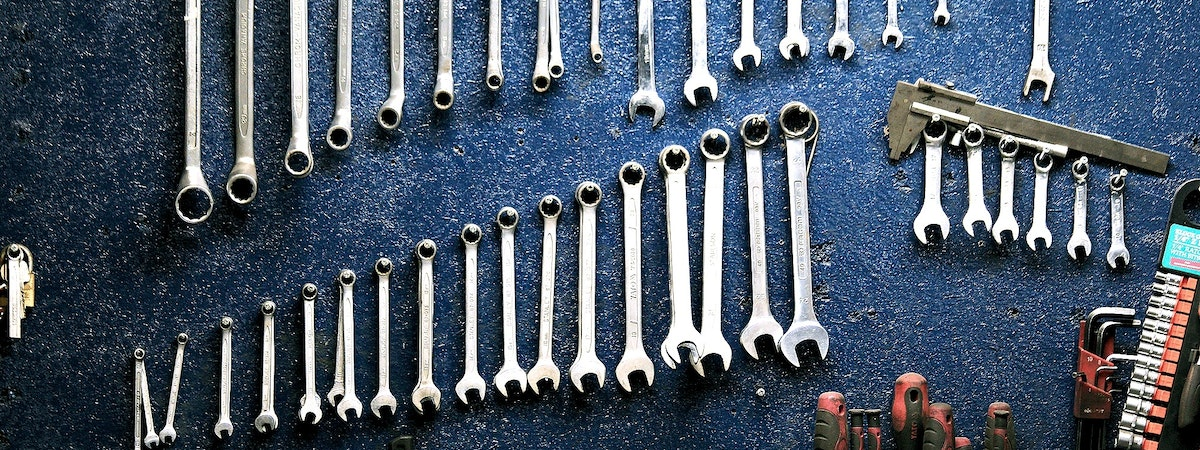
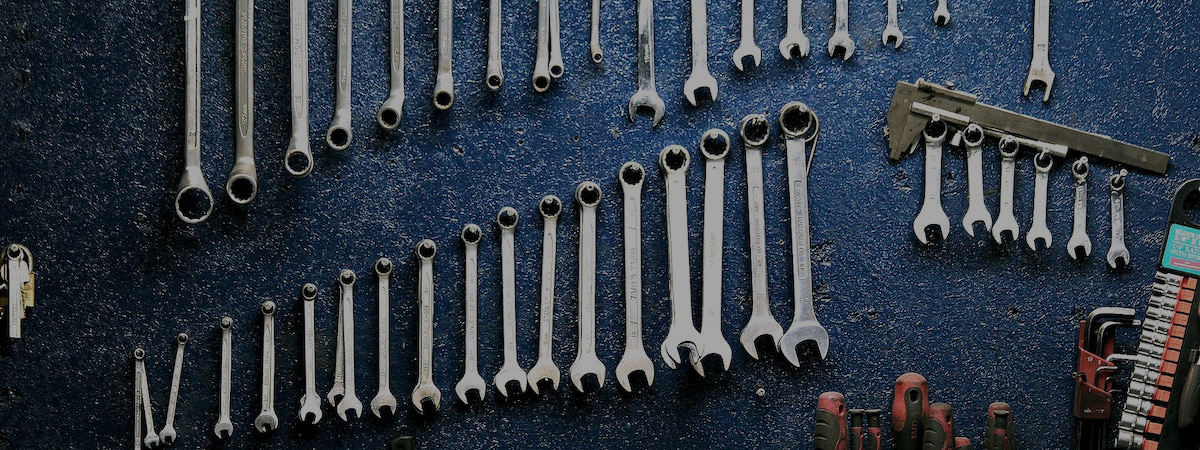
update borracharia

diff --git a/public/css/Borracha.css b/public/css/Borracha.css
@@ -10,6 +10,7 @@
 
 main {
   background-size: cover;
+  background-color: #EFEFEF;
 }
 
 a {
@@ -42,7 +43,7 @@ nav {
   justify-content: space-around;
   align-items: center;
   font-family: system-ui, -apple-system, Helvetica, Arial, sans-serif;
-  background: #fff;
+  background-color: white;
   height: 10vh;
   position: fixed;
   z-index: 999;
@@ -103,31 +104,42 @@ nav {
 
 /* SLIDER */
 .slider {
-  height: 70vh;
+  height: auto;
   display: flex;
   justify-content: center;
   align-items: center;
+  background-color: #303842;
 }
 
 .img-slider {
   position: relative;
   width: 100%;
-  height: 500px;
+  height: 490px;
   margin: 0px;
+  transition: opacity 0.5s ease-in-out;
 }
-
 .img-slider .slide {
-  z-index: 1;
   position: absolute;
   width: 100%;
-  clip-path: circle(0% at 0 50%);
+  z-index: 1;
+  top: 0;
+  left: 0;
+  opacity: 0;
+  transition: opacity 0.5s ease-in-out, transform 0.5s ease-in-out;
 }
 
 .img-slider .slide.active {
-  clip-path: circle(150% at 0 50%);
-  transition: 2s;
-  transition-property: clip-path;
+  opacity: 1;
+  transform: translateX(0%);
+  transition: opacity 0.5s ease-in-out, transform 0.5s ease-in-out;
 }
+
+.img-slider .slide.previous {
+  opacity: 1;
+  transform: translateX(-100%);
+  transition: opacity 0.5s ease-in-out, transform 0.5s ease-in-out;
+}
+
 
 .img-slider .slide img {
   z-index: 1;
@@ -182,23 +194,9 @@ nav {
 
 @media (max-width: 820px) {
   .img-slider {
-    width: 600px;
+    width: 100%;
     height: 375px;
   }
-
-  .img-slider .slide .info {
-    padding: 10px 25px;
-  }
-
-  .img-slider .slide .info h2 {
-    font-size: 35px;
-  }
-
-  .img-slider .slide .info p {
-    width: 70%;
-    font-size: 15px;
-  }
-
   .img-slider .navigation {
     bottom: 25px;
   }
@@ -212,23 +210,9 @@ nav {
 
 @media (max-width: 620px) {
   .img-slider {
-    width: 400px;
+    width: 100%;
     height: 250px;
   }
-
-  .img-slider .slide .info {
-    padding: 10px 20px;
-  }
-
-  .img-slider .slide .info h2 {
-    font-size: 30px;
-  }
-
-  .img-slider .slide .info p {
-    width: 80%;
-    font-size: 13px;
-  }
-
   .img-slider .navigation {
     bottom: 15px;
   }
@@ -242,7 +226,7 @@ nav {
 
 @media (max-width: 420px) {
   .img-slider {
-    width: 320px;
+    width: 100%;
     height: 200px;
   }
 
@@ -266,7 +250,7 @@ nav {
 
 /* SERVIÇOS */
 .servicos {
-  min-height: 100vh;
+  min-height: 50vh;
   display: flex;
   align-items: center;
   justify-content: center;
@@ -278,6 +262,7 @@ nav {
   max-width: 1120px;
   width: 100%;
   padding: 40px 0;
+  margin-bottom: 2%;
 }
 
 .servicos .slide-content {
@@ -396,6 +381,7 @@ nav {
 
 .servicos .swiper-button-prev {
   left: 0;
+  
 }
 
 .servicos .swiper-pagination-bullet {
@@ -407,6 +393,30 @@ nav {
   background-color: #FF4500;
 }
 
+/* AGENDAMENTO */
+.agendamento{
+  width: 100%;
+  height: 40vh;
+  background-color: #EFEFEF;
+  display: flex;
+  justify-content: right;
+  align-items: center;
+}
+.agend{
+  float: right;
+  width: 40%;
+  height: 100%;
+  background-color: #FF4500;
+  border-radius: 100px 0px 50px 0px;
+  margin-right: 10%;
+}
+
+.contact{
+  width: 100%;
+  height: 40vh;
+  background-color: #FF4500;
+  margin-top: 5%;
+}
 
 /* responsivibilidade */
 
@@ -418,7 +428,7 @@ nav {
 
 
   .nav-list {
-    position: fixed;
+    position: absolute;
     top: 10vh;
     right: 0vh;
     width: 50vw;

diff --git a/public/views/borracharia.html b/public/views/borracharia.html
@@ -39,14 +39,6 @@
             <div class="img-slider">
                 <div class="slide active">
                     <img src="../img/autocenter/banner01.jpg" alt="">
-                    <div class="info">
-                        <h2>Slide 01</h2>
-                        <p>Lorem ipsum dolor sit amet, consectetur adipisicing elit, sed do eiusmod tempor incididunt ut
-                            labore et dolore magna aliqua.</p>
-                    </div>
-                </div>
-                <div class="slide">
-                    <img src="../img/autocenter/banner01.jpg" alt="">
                 </div>
                 <div class="slide">
                     <img src="../img/autocenter/banner02.jpg" alt="">
@@ -55,11 +47,10 @@
                     <img src="../img/autocenter/banner03.jpg" alt="">
                 </div>
                 <div class="slide">
-                    <img src="../img/autocenter/banner04.jpeg" alt="">
+                    <img src="../img/autocenter/banner04.jpg" alt="">
                 </div>
                 <div class="navigation">
                     <div class="btn active"></div>
-                    <div class="btn"></div>
                     <div class="btn"></div>
                     <div class="btn"></div>
                     <div class="btn"></div>
@@ -141,11 +132,18 @@
 
                     </div>
                 </div>
-
                 <div class="swiper-button-next swiper-navBtn"></div>
                 <div class="swiper-button-prev swiper-navBtn"></div>
                 <div class="swiper-pagination"></div>
             </div>
+        </section>
+        <section class="agendamento">
+            <div class="agend">
+
+            </div>
+        </section>
+        <section class="contact">
+
         </section>
     </main>
 

diff --git a/public/css/css.css b/public/css/css.css
@@ -7,6 +7,11 @@
   box-sizing: border-box;
 }
 
+main{
+  background-color: #EFEFEF;
+  background-size: cover;
+}
+
 a {
   color: #303842;
   text-decoration: none;
@@ -47,7 +52,7 @@ nav {
   justify-content: space-around;
   align-items: center;
   font-family: system-ui, -apple-system, Helvetica, Arial, sans-serif;
-  background: #fff;
+  background-color: #EFEFEF;
   height: 8vh;
   border-radius: 0px;
 }
@@ -155,7 +160,7 @@ main {
 .card {
   width: 200px;
   height: 260px;
-  background: #f5f5f5;
+  background-color: #EFEFEF;
   padding: 2rem 1.5rem;
   transition: box-shadow .3s ease, transform .2s ease;
   /* margin-left: 5%; */
@@ -244,6 +249,7 @@ main {
 
 .about {
   width: 100%;
+  background-color: #EFEFEF;
 }
 
 .about .container {

diff --git a/public/js/borracha.js b/public/js/borracha.js
@@ -1,7 +1,7 @@
 // ANIMAÇÃO DO NAV-BAR FUNDO
 $(document).ready(function () {
     // Obter a posição da seção do slider
-    var sliderOffset = $('.servicos').offset().top;
+    var sliderOffset = $('.slider').offset().top;
 
     $(window).scroll(function () {
         // Obter a posição atual da barra de rolagem
@@ -96,7 +96,7 @@ var swiper = new Swiper(".slide-content", {
                                 return;
                             }
                             repeater();
-                        }, 10000);
+                        }, 4000);
                     }
                     repeater();
                 }
